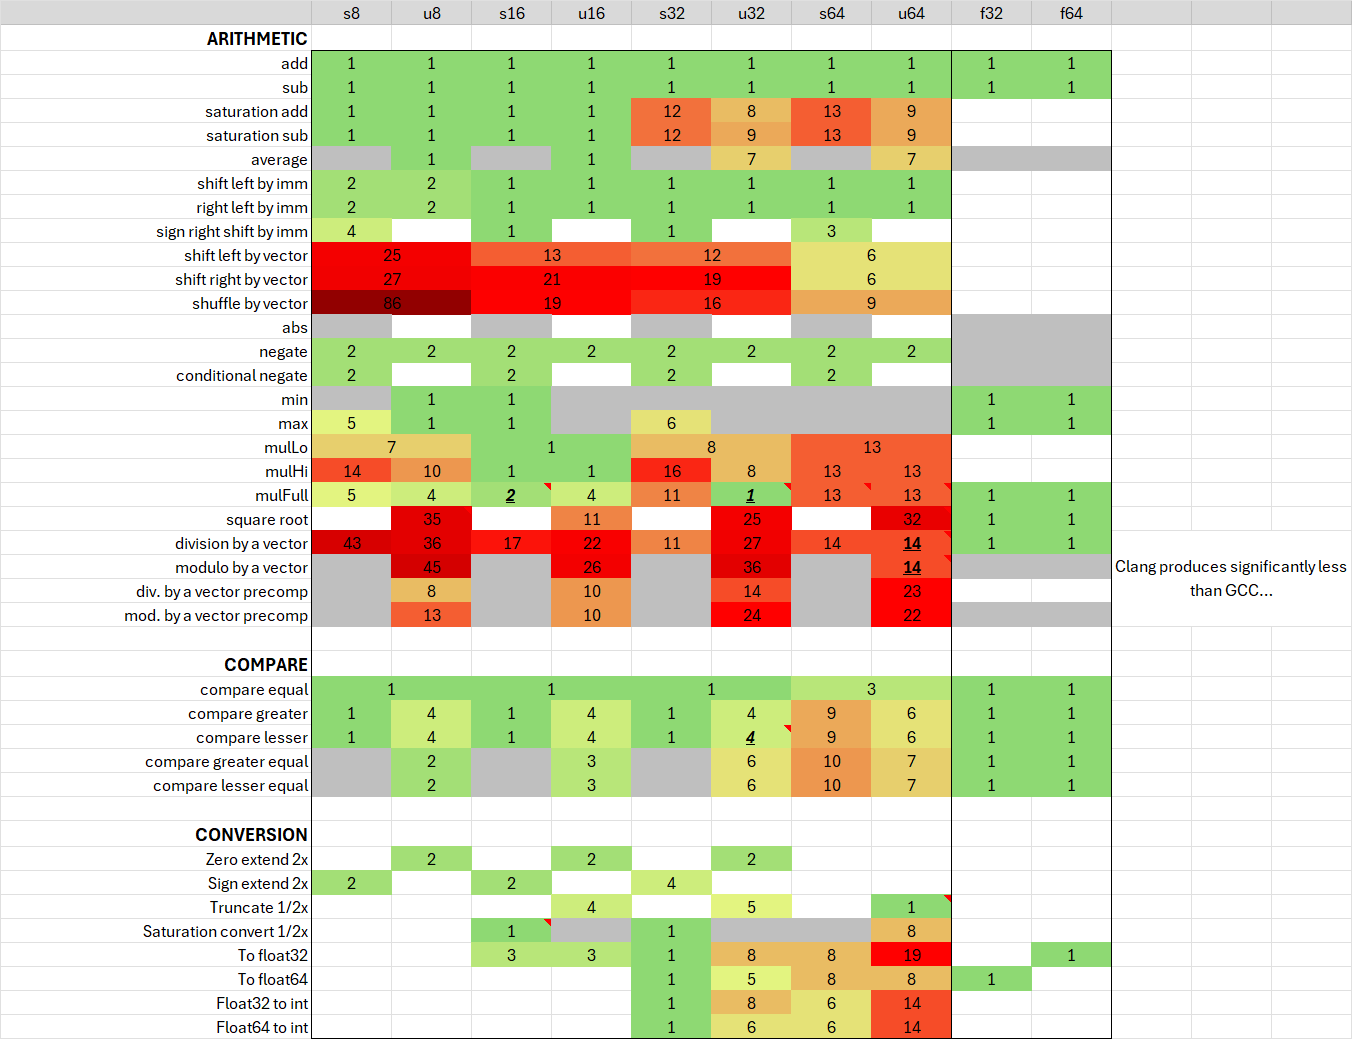
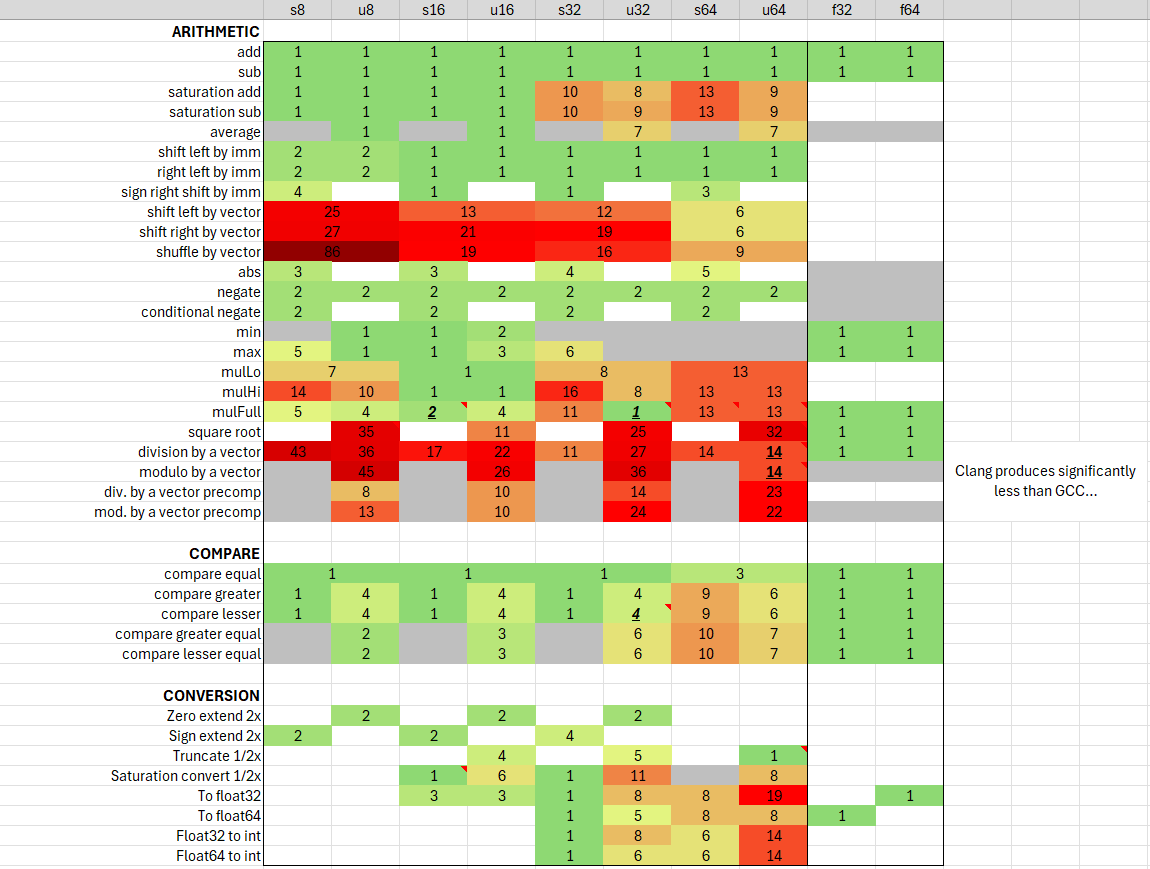
Overflow-related improvements
- Added unsigned 16-bit min/max.
- Improved signed 32-bit saturation arithmetic by using XOR-based overflow condition. (-2 instructions)
- Improved unsigned 32-bit saturation truncation by 2 instructions.

diff --git a/include/sseCom_parts/conversion.h b/include/sseCom_parts/conversion.h
@@ -61,6 +61,19 @@ SSECOM_INLINE __m128i _trunc_u16x8_u8x16(__m128i u16LoHalf, __m128i u16HiHalf) {
     return _mm_packus_epi16(loHalf_lo8, hiHalf_lo8);
 }
 
+// Convert unsigned 16-bit integers into 8-bit via unsigned saturation
+// (When value is too large to fit, it is clamped to UINT8_MAX)
+SSECOM_INLINE __m128i _satConvert_u16x8_u8x16(__m128i u16LoHalf, __m128i u16HiHalf) {
+    __m128i halfClamp_lo = _mm_subs_epu16(_mm_set1_epi16(UINT8_MAX), u16LoHalf);
+    __m128i halfClamp_hi = _mm_subs_epu16(_mm_set1_epi16(UINT8_MAX), u16HiHalf);
+
+    // Always below `UINT8_MAX`, can't saturation
+    __m128i halfClamp = _mm_packus_epi16(halfClamp_lo, halfClamp_hi);
+    
+    // min(x, MAX) = MAX - satSub(MAX, x)
+    return _mm_sub_epi16(_mm_set1_epi8((char)UINT8_MAX), halfClamp);
+}
+
 
 // ====== 32-bit ======
 
@@ -106,20 +119,34 @@ SSECOM_INLINE __m128i _trunc_u32x4_u16x8(__m128i u32LoHalf, __m128i u32HiHalf) {
 }
 
 // Convert unsigned 32-bit integers into 16-bit via unsigned saturation
-// (When value is too large to fit, it is clamped to UINT32_MAX)
+// (When value is too large to fit, it is clamped to UINT16_MAX)
 __m128i _satConvert_u32x4_u16x8(__m128i u32LoHalf, __m128i u32HiHalf) {
-    // TODO: Maybe there is a cheaper way...
-    __m128i loWontSat = _mm_cmpeq_epi16( _mm_srli_epi32(u32LoHalf, 16), _mm_setzero_si128());
-    __m128i loWillSat = _mm_cmpeq_epi16(loWontSat, _mm_setzero_si128());
-
-    __m128i hiWontSat = _mm_cmpeq_epi16(_mm_srli_epi32(u32HiHalf, 16), _mm_setzero_si128());
-    __m128i hiWillSat = _mm_cmpeq_epi16(hiWontSat, _mm_setzero_si128());
+    #if 0
+    __m128i hiTrunc = _mm_packs_epi32( _mm_srai_epi32(u32LoHalf, 16), _mm_srai_epi32(u32HiHalf, 16));
+    __m128i doesntSat = _mm_cmpeq_epi16(hiTrunc, _mm_setzero_si128());
     
-    // Cause a saturation before truncating
-    u32LoHalf = _mm_or_si128(u32LoHalf, loWillSat);
-    u32HiHalf = _mm_or_si128(u32HiHalf, hiWillSat);
+    __m128i loTrunc = _trunc_u32x4_u16x8(u32LoHalf, u32HiHalf);
 
-    return _trunc_u32x4_u16x8(u32LoHalf, u32HiHalf);
+    return _mm_or_si128(loTrunc, _mm_cmpeq_epi16(doesntSat, _mm_setzero_si128()));
+    #else
+    
+    // Sign extend lower (prevents saturation) and add upper
+    __m128i madd_lo = _mm_madd_epi16(u32LoHalf, _mm_set1_epi16(1));
+    __m128i madd_hi = _mm_madd_epi16(u32HiHalf, _mm_set1_epi16(1));
+    __m128i plainTrunc = _mm_packs_epi32(madd_lo, madd_hi);
+
+    // Lower is only unaffected if upper is zero
+    __m128i hiNotZero_lo = _mm_cmpeq_epi16(madd_lo, u32LoHalf);
+    __m128i hiNotZero_hi = _mm_cmpeq_epi16(madd_hi, u32HiHalf);
+
+    // [0,0]: 0, [0,1]: MAX, [1,0]: MIN, [1,1]: -1
+    __m128i eqlSat = _mm_packs_epi32(hiNotZero_lo, hiNotZero_hi);
+
+    __m128i shouldSaturate = _mm_cmpeq_epi16(_mm_add_epi16(eqlSat,eqlSat), _mm_setzero_si128());
+
+    return _mm_or_si128(plainTrunc, shouldSaturate);
+
+    #endif
 }
 
 // ====== 64-bit ======

diff --git a/include/sseCom_parts/arithmetic.h b/include/sseCom_parts/arithmetic.h
@@ -176,19 +176,14 @@ __m128i _subSat_u32x4(__m128i minuend, __m128i subtrahend) {
 __m128i _addSat_i32x4(__m128i a, __m128i b) {
     __m128i sum = _mm_add_epi32(a, b);
 
-    __m128i inpSignDiffer_MSB = _mm_xor_si128(a, b);
-    __m128i resSignDiffer_MSB = _mm_xor_si128(sum, a);
-
-    // Input elements have the same sign, but the result doesn't
-    __m128i hasWrapped = _mm_andnot_si128(inpSignDiffer_MSB, resSignDiffer_MSB);
-    hasWrapped = _mm_srai_epi32(hasWrapped, 31);
+    __m128i shouldDecrease = _mm_srai_epi32(b, 31); // `blendv` prevents the need for this
+    __m128i hasWrapped = _mm_xor_si128(_mm_cmpgt_epi32(a, sum), shouldDecrease);
 
     // INT_MAX: 0b01..11, INT_MIN: 0b10..00
     __m128i clampedValue = _mm_add_epi32(
         _mm_set1_epi32(INT32_MAX), _mm_srli_epi32(a, 31)
     );
 
-    // For SSE4.1, use `blendv_ps` and remove second line for hasWrapped
     return _either_i128(clampedValue, sum, hasWrapped);
 }
 
@@ -197,20 +192,14 @@ __m128i _addSat_i32x4(__m128i a, __m128i b) {
 __m128i _subSat_i32x4(__m128i minuend, __m128i subtrahend) {
     __m128i difference = _mm_sub_epi32(minuend, subtrahend);
 
-    // Magnitude increases when signs differ (pos - neg = pos + pos)
-    __m128i shouldIncrMagnitude_MSB = _mm_xor_si128(minuend, subtrahend);
-    __m128i subChangedSign_MSB = _mm_xor_si128(difference, minuend);
-
-    // Must have wrapped when a increase in magnitude caused a sign change
-    __m128i hasWrapped = _mm_and_si128(shouldIncrMagnitude_MSB, subChangedSign_MSB);
-    hasWrapped = _mm_srai_epi32(hasWrapped, 31);
+    __m128i shouldDecrease = _mm_cmpgt_epi32(subtrahend, _mm_setzero_si128());
+    __m128i hasWrapped = _mm_xor_si128(_mm_cmpgt_epi32(minuend, difference), shouldDecrease);
 
     // INT_MAX: 0b01..11, INT_MIN: 0b10..00
     __m128i clampedValue = _mm_add_epi32(
         _mm_set1_epi32(INT32_MAX), _mm_srli_epi32(minuend, 31)
     );
 
-    // For SSE4.1, use `blendv_ps` and remove second line for hasWrapped
     return _either_i128(clampedValue, difference, hasWrapped);
 }
 

diff --git a/include/sseCom_parts/compare.h b/include/sseCom_parts/compare.h
@@ -183,3 +183,13 @@ SSECOM_INLINE __m128i _max_i8x16(__m128i a, __m128i b) {
         return _mm_xor_si128(unsignedMax, _mm_set1_epi8(CHAR_MIN));
     #endif
 }
+
+// Return the larger element between the corresponding unsigned 16-bit integers
+SSECOM_INLINE __m128i _max_u16x8(__m128i a, __m128i b) {
+    return _mm_add_epi16(a, _mm_subs_epu16(b, a));
+}
+
+// Return the smaller element between the corresponding unsigned 16-bit integers
+SSECOM_INLINE __m128i _min_u16x8(__m128i a, __m128i b) {
+    return _mm_sub_epi16(a, _mm_subs_epu16(a, b));
+}